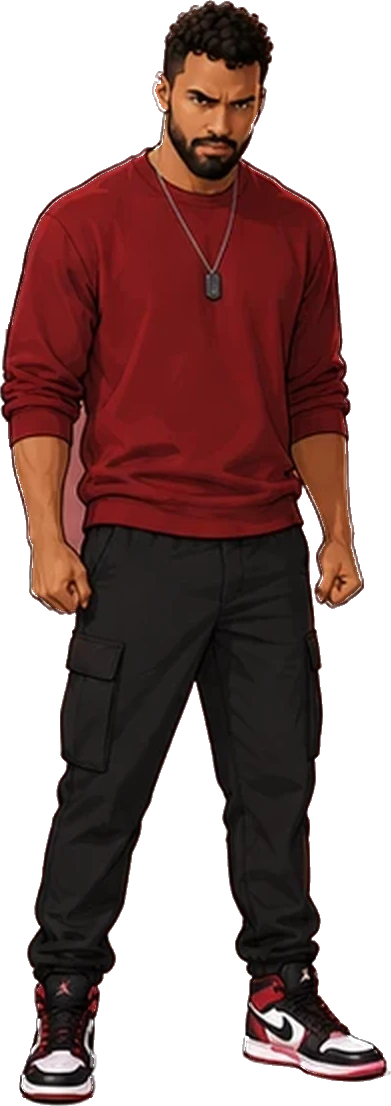
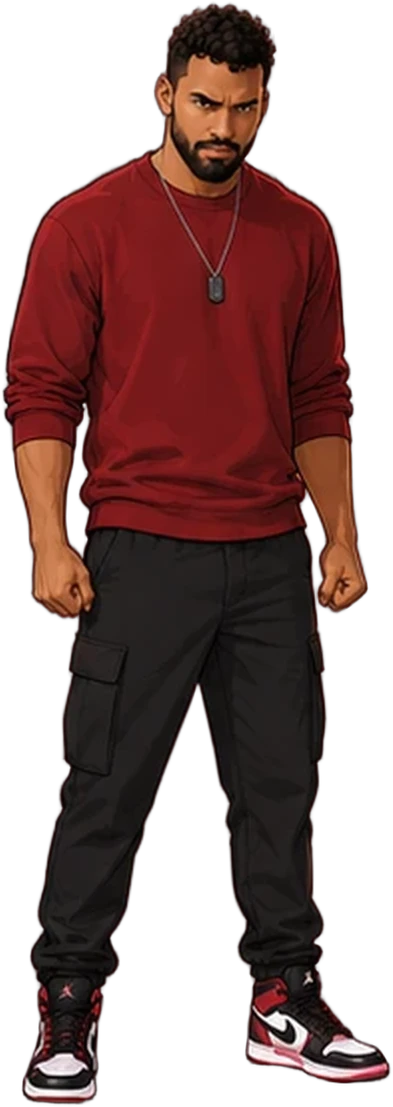
Reels do Jessé: poses dos dois recortadas com IA e aviso da pose 'confiante'
O recorte por cor deixava fundo preso entre braço e corpo; o recortar_ia.py usa o BiRefNet (rembg).
A pose 'confiante' da Ranya tem o cotovelo cortado na própria folha e não deve ser usada.

Claude-Session: https://claude.ai/code/session_014W28W38KCvwRPbR1wzYgEP

diff --git a/.claude/skills/reels-jesse/personagem/recortar_ia.py b/.claude/skills/reels-jesse/personagem/recortar_ia.py
@@ -1,0 +1,70 @@
+# Recorta as poses de corpo inteiro com um modelo de IA de remoção de fundo (BiRefNet, via rembg), em 2x.
+# Substitui o recorte por cor do poses.py / poses_ela.py, que deixava bolsões do fundo entre braço e corpo
+# e cortava cotovelos que passam da borda do quadro.
+#
+# Uso (num venv com: pip install "rembg[cpu]" pillow numpy; o modelo vem das releases do GitHub do rembg):
+#   python recortar_ia.py jesse   ->  poses/<nome>.webp + poses/poses.json
+#   python recortar_ia.py ranya   ->  ../personagem-ela/poses/<nome>.webp + poses.json
+import json, os, sys
+import numpy as np
+from PIL import Image, ImageDraw, ImageFilter
+from rembg import remove, new_session
+
+AQUI = os.path.dirname(os.path.abspath(__file__))
+F = 2
+FOLGA = 22   # pixels a mais de cada lado na folha: braços e cabelo passam da borda do quadro
+
+# nome: (caixa do quadro na folha, centro do tronco para escolher a figura certa)
+JESSE = ('folha-poses.webp', 'poses', {
+    'neutro': ((5, 8, 222, 580), (105, 200)), 'sorriso': ((214, 8, 430, 580), (318, 200)),
+    'afirmativo': ((428, 8, 645, 580), (540, 220)), 'pensativo': ((645, 8, 848, 580), (745, 240)),
+    'raiva': ((848, 8, 1054, 580), (950, 200)), 'surpreso': ((1040, 8, 1254, 580), (1150, 200)),
+    'rindo': ((5, 640, 216, 1172), (105, 820)), 'triste': ((216, 640, 414, 1172), (310, 820)),
+    'foto': ((414, 640, 606, 1172), (510, 820)), 'caminhando': ((606, 640, 796, 1172), (700, 820)),
+    'cabelo': ((796, 640, 982, 1172), (890, 820)), 'costas': ((982, 640, 1134, 1172), (1058, 820)),
+})
+_top = [(23, 205), (223, 412), (429, 608), (625, 822), (837, 1033), (1050, 1233)]
+_bot = [(23, 180), (192, 345), (351, 508), (520, 674), (686, 831), (844, 997), (1000, 1134)]
+RANYA = ('../personagem-ela/folha-poses-ela.webp', '../personagem-ela/poses', {
+    **{n: ((a, 4, b, 604), ((a + b) // 2, 300)) for n, (a, b) in zip(['neutro', 'sorriso', 'afirmativo', 'pensativo', 'brava', 'surpresa'], _top)},
+    **{n: ((a, 644, b, 1197), ((a + b) // 2, 900)) for n, (a, b) in zip(['triste', 'pensando', 'desconfiada', 'confiante', 'rindo', 'seria', 'de_lado'], _bot)},
+})
+
+
+def recorta(folha, sessao, caixa, centro):
+    x0, y0, x1, y1 = caixa
+    x0, x1 = max(0, x0 - FOLGA), min(folha.width, x1 + FOLGA)
+    im = folha.crop((x0, y0, x1, y1)).resize(((x1 - x0) * F, (y1 - y0) * F), Image.LANCZOS)
+    out = remove(im, session=sessao)
+    a = np.array(out)
+    # fica só a figura ligada ao tronco (a folga pode trazer pedaço da pose vizinha)
+    mask = (a[..., 3] > 30).astype(np.uint8) * 255
+    m = Image.fromarray(mask).convert('RGB')
+    cx, cy = (centro[0] - x0) * F, (centro[1] - y0) * F
+    ys, xs = np.where(mask[max(0, cy - 140):cy + 140, max(0, cx - 140):cx + 140] > 0)
+    k = np.argmin((xs - 140) ** 2 + (ys - 140) ** 2)
+    ImageDraw.floodfill(m, (int(xs[k]) + max(0, cx - 140), int(ys[k]) + max(0, cy - 140)), (255, 0, 255))
+    mm = np.array(m); fig = (mm[..., 0] == 255) & (mm[..., 1] == 0)
+    perto = np.array(Image.fromarray((fig * 255).astype(np.uint8)).filter(ImageFilter.MaxFilter(7))) > 0   # guarda a borda suave
+    a[..., 3] = np.where(perto, a[..., 3], 0)
+    out = Image.fromarray(a, 'RGBA')
+    out = out.crop(out.getbbox())
+    al = np.array(out)[..., 3] > 40
+    pe = int(np.where(al.any(1))[0].max())
+    return out, {'largura': out.width, 'altura': out.height, 'pe_y': pe,
+                 'pe_x': int(np.where(al[pe - 30 * F:pe].any(0))[0].mean())}
+
+
+if __name__ == '__main__':
+    folha_arq, pasta, poses = {'jesse': JESSE, 'ranya': RANYA}[sys.argv[1]]
+    folha = Image.open(os.path.join(AQUI, folha_arq)).convert('RGB')
+    pasta = os.path.join(AQUI, pasta); os.makedirs(pasta, exist_ok=True)
+    sessao = new_session('birefnet-general-lite')
+    info = {}
+    for nome, (caixa, centro) in poses.items():
+        print(nome, flush=True)
+        im, dados = recorta(folha, sessao, caixa, centro)
+        im.save(os.path.join(pasta, f'{nome}.webp'), quality=90, method=6)
+        info[nome] = dados
+    json.dump(info, open(os.path.join(pasta, 'poses.json'), 'w'), indent=1)
+    print('ok', len(info))

diff --git a/.claude/skills/reels-jesse/SKILL.md b/.claude/skills/reels-jesse/SKILL.md
@@ -12,10 +12,11 @@ Leia antes `/hyperframes` (contrato e ciclo de trabalho). Esta receita guarda o 
 | Pasta | O que é |
 | --- | --- |
 | `modelo/` | O Reels "POV: era só um portfólio" (Fazendinha), pronto para copiar. `gerar.py` gera `index.html` e `compositions/*`. Também traz SPEC, STORYBOARD, STORYLINES, REVIEW e os assets (telas, voz, efeitos, fontes, GSAP). |
-| `personagem/` | As duas folhas que ele mandou (`folha-expressoes.webp`, `folha-poses.webp`) e os scripts que montam o personagem. |
+| `personagem/` | As folhas que ele mandou e os scripts. **Recorte as poses com `recortar_ia.py`** (IA BiRefNet via rembg, num venv com `pip install "rembg[cpu]"`): `python recortar_ia.py jesse` ou `ranya`. Ele substitui o recorte por cor do `poses.py`, que deixava fundo preso entre braço e corpo. |
+| `personagem/ (antigo)` | As duas folhas que ele mandou (`folha-expressoes.webp`, `folha-poses.webp`) e os scripts que montam o personagem. |
 | `personagem/final/` | As 8 caras prontas (`jesse-<cara>.webp`) e as camadas do gesto "mão no queixo" (`gesto-*.webp`). |
 | `personagem/poses/` | As 12 poses de corpo inteiro, com fundo transparente. `poses.json` dá a largura, a altura e o pé de cada uma. |
-| `personagem-ela/` | A Ranya (esposa do Jessé, Instagram @_ranyacoelho), para vídeos com os dois conversando: a folha `folha-poses-ela.webp`, o `poses_ela.py` que recorta e as 13 poses em `poses/` (neutro, sorriso, afirmativo, pensativo, brava, surpresa, triste, pensando, desconfiada, confiante, rindo, seria, de_lado), com o mesmo `poses.json`. |
+| `personagem-ela/` | A Ranya (esposa do Jessé, Instagram @_ranyacoelho), para vídeos com os dois conversando: a folha `folha-poses-ela.webp`, o `poses_ela.py` que recorta e as 13 poses em `poses/` (neutro, sorriso, afirmativo, pensativo, brava, surpresa, triste, pensando, desconfiada, confiante, rindo, seria, de_lado), com o mesmo `poses.json`. **Não use a pose `confiante`:** na folha original o cotovelo direito dela termina reto na borda do quadro, e no vídeo o braço aparece cortado. |
 | `ferramentas/` | Scripts para cortar e conferir a voz (`voz-*`) e para capturar as telas (`captura/`). |
 
 ## O que ele já decidiu
